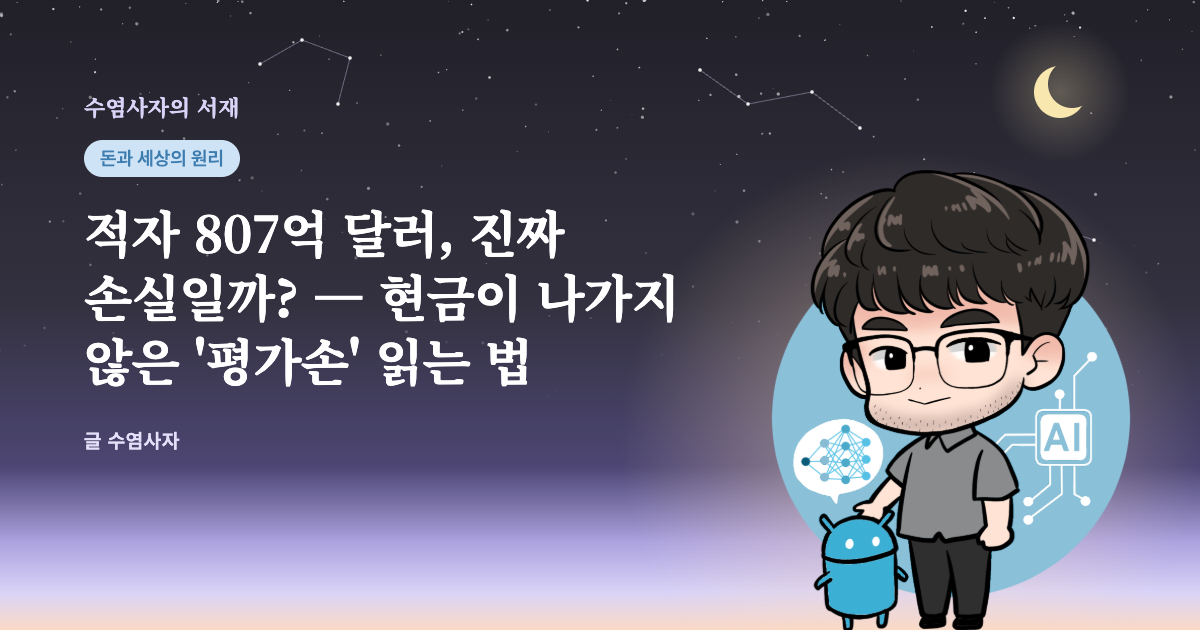
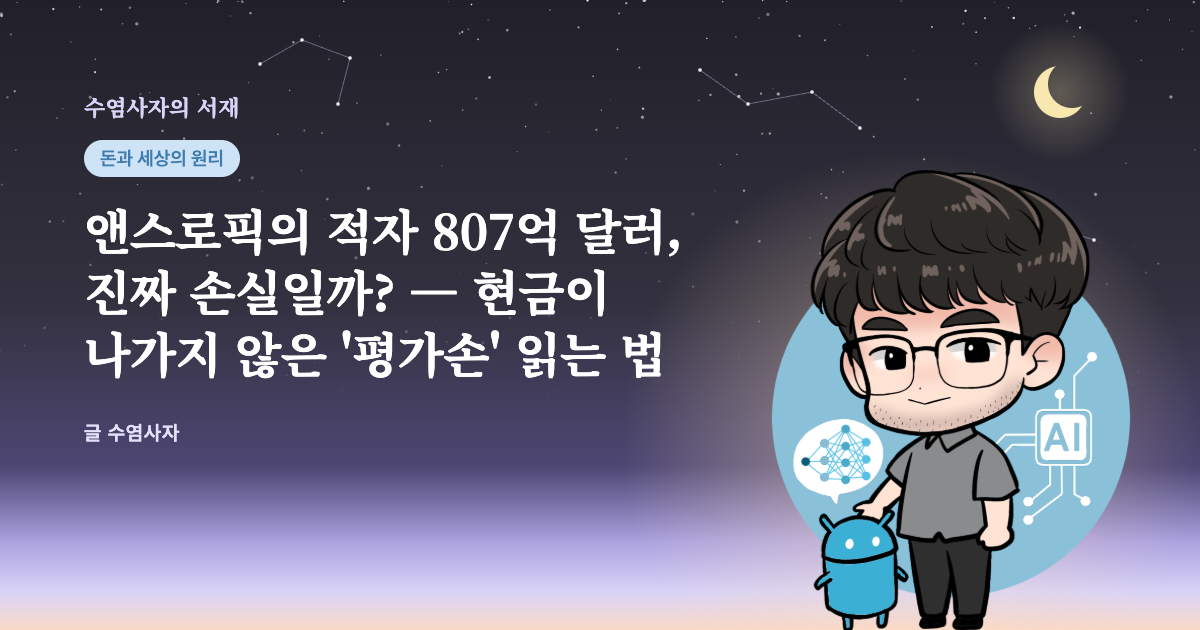
post: 평가손 글 제목에 앤스로픽을 밝힘
Claude-Session: https://claude.ai/code/session_01J36DQQsi1iZDy94NMGj8jH

Changed region(s): [[0.0617, 0.3317, 0.5858, 0.6333], [0.0617, 0.6635, 0.1542, 0.7238]]

diff --git a/posts/anthropic-fair-value-loss/post.html b/posts/anthropic-fair-value-loss/post.html
@@ -3,7 +3,7 @@
 <head>
 <meta charset="utf-8">
 <meta name="viewport" content="width=device-width, initial-scale=1">
-<title>800억 달러 적자는 진짜 적자일까 — 공정가치 평가손실</title>
+<title>앤스로픽의 적자 807억 달러, 진짜 손실일까? — 현금이 나가지 않은 '평가손' 읽는 법</title>
 <meta name="description" content="Anthropic 상장 신고서의 상반기 순손실 807억 달러 가운데 약 90%는 현금이 나가지 않은 평가손이었습니다. 회사가 잘될수록 장부 손실이 커지는 이유, 장부 밖 약정을 읽는 법, 그리고 다모다란이 계산한 1.48조 달러의 가정을 원 자료로 풀어 봅니다.">
 <link rel="stylesheet" href="https://cdn.jsdelivr.net/gh/orioncactus/pretendard/dist/web/static/pretendard.css">
 <style>
@@ -59,7 +59,7 @@
 </head>
 <body>
 <article>
-<h1>적자 807억 달러, 진짜 손실일까? — 현금이 나가지 않은 '평가손' 읽는 법</h1>
+<h1>앤스로픽의 적자 807억 달러, 진짜 손실일까? — 현금이 나가지 않은 '평가손' 읽는 법</h1>
 <div class="meta">2026-11-01 · 약 14분 분량 · 글 수염사자</div>
 
 <p class="lead-quote">"6개월에 800억 달러를 잃었다고요? 그럼 완전히 거품 아닌가요?"</p>
